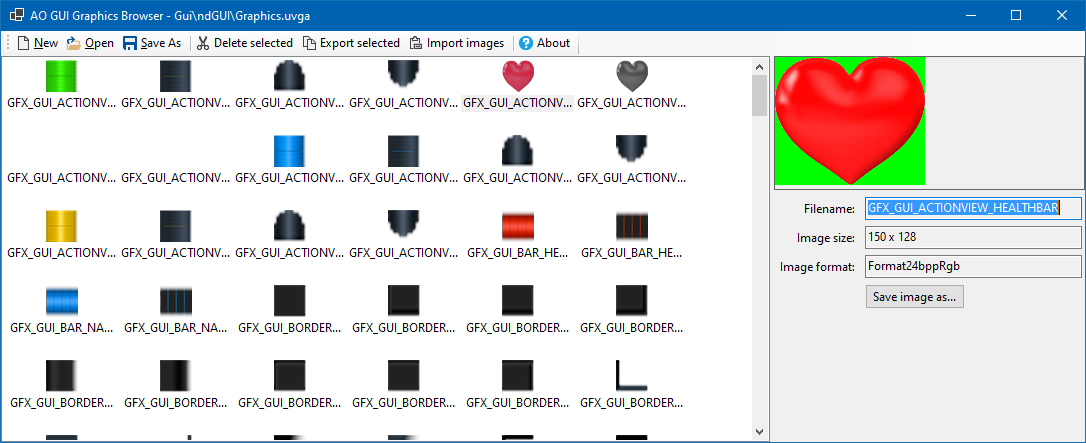
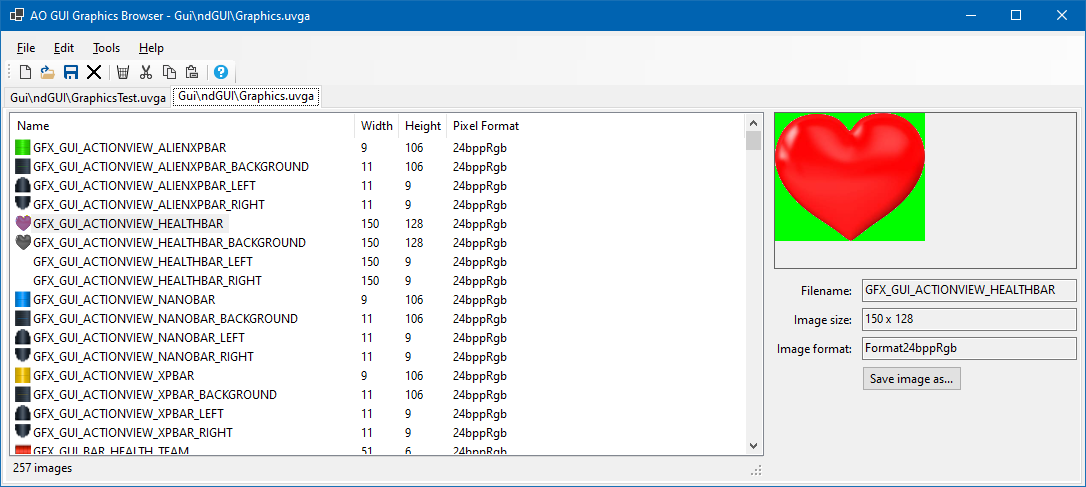
Updated readme and screenshot.

Changed region(s): [[0.0, 0.0, 1.0, 1.0]]

diff --git a/README.md b/README.md
@@ -1,3 +1,21 @@
+# UvgaExplorer
+**UvgaExplorer** is a .NET 8.0 GUI application that allows editing the contents of the UVGA/UVGI file parts.
+You can open existing files, export the contents, import images, or edit images in an external application by double-clicking them.
+
+![ScreenShot](screenshot.png)
+
+Features include:
+- Open multiple UVGA/I files in the same application
+- Free browsing of the images
+- Import / Export functions incl. image format adjustment
+- Copy / Paste or drag & drop between open files
+- Drag & Drop interface with Windows explorer
+- Open images in external editor by double-click with automatic re-import
+- Automatic backup creation
+
+Requirements:
+Install the .NET 8 Desktop Runtime.
+
 # LibUvga
 **LibUvga** is a .NET Standard 2.0 library to open .UVGA/.UVGI file pairs that contain the images that are used to display the ingame GUI of the game Anarchy Online.
 
@@ -17,9 +35,3 @@ var imageData = File.ReadAllBytes(@"C:\test\image1.png"); // Should be 24bpp RGB
 uvga.Images.Add(new UvgaImageContent("GFX_GUI_ACTIONVIEW_HEALTHBAR", imageData));
 uvga.Save(@"C:\test\MyNewUVGA.uvgi"); // Extension is not important, it will create both MyNewUVGA.uvgi and MyNewUVGA.uvga
 ```
-
-# UvgaExplorer
-**UvgaExplorer** is a .NET 8.0 GUI application that allows editing the contents of the UVGA/UVGI file parts.
-You can open existing files, export the contents, import images, or edit images in an external application by double-clicking them.
-
-![ScreenShot](screenshot.png)
